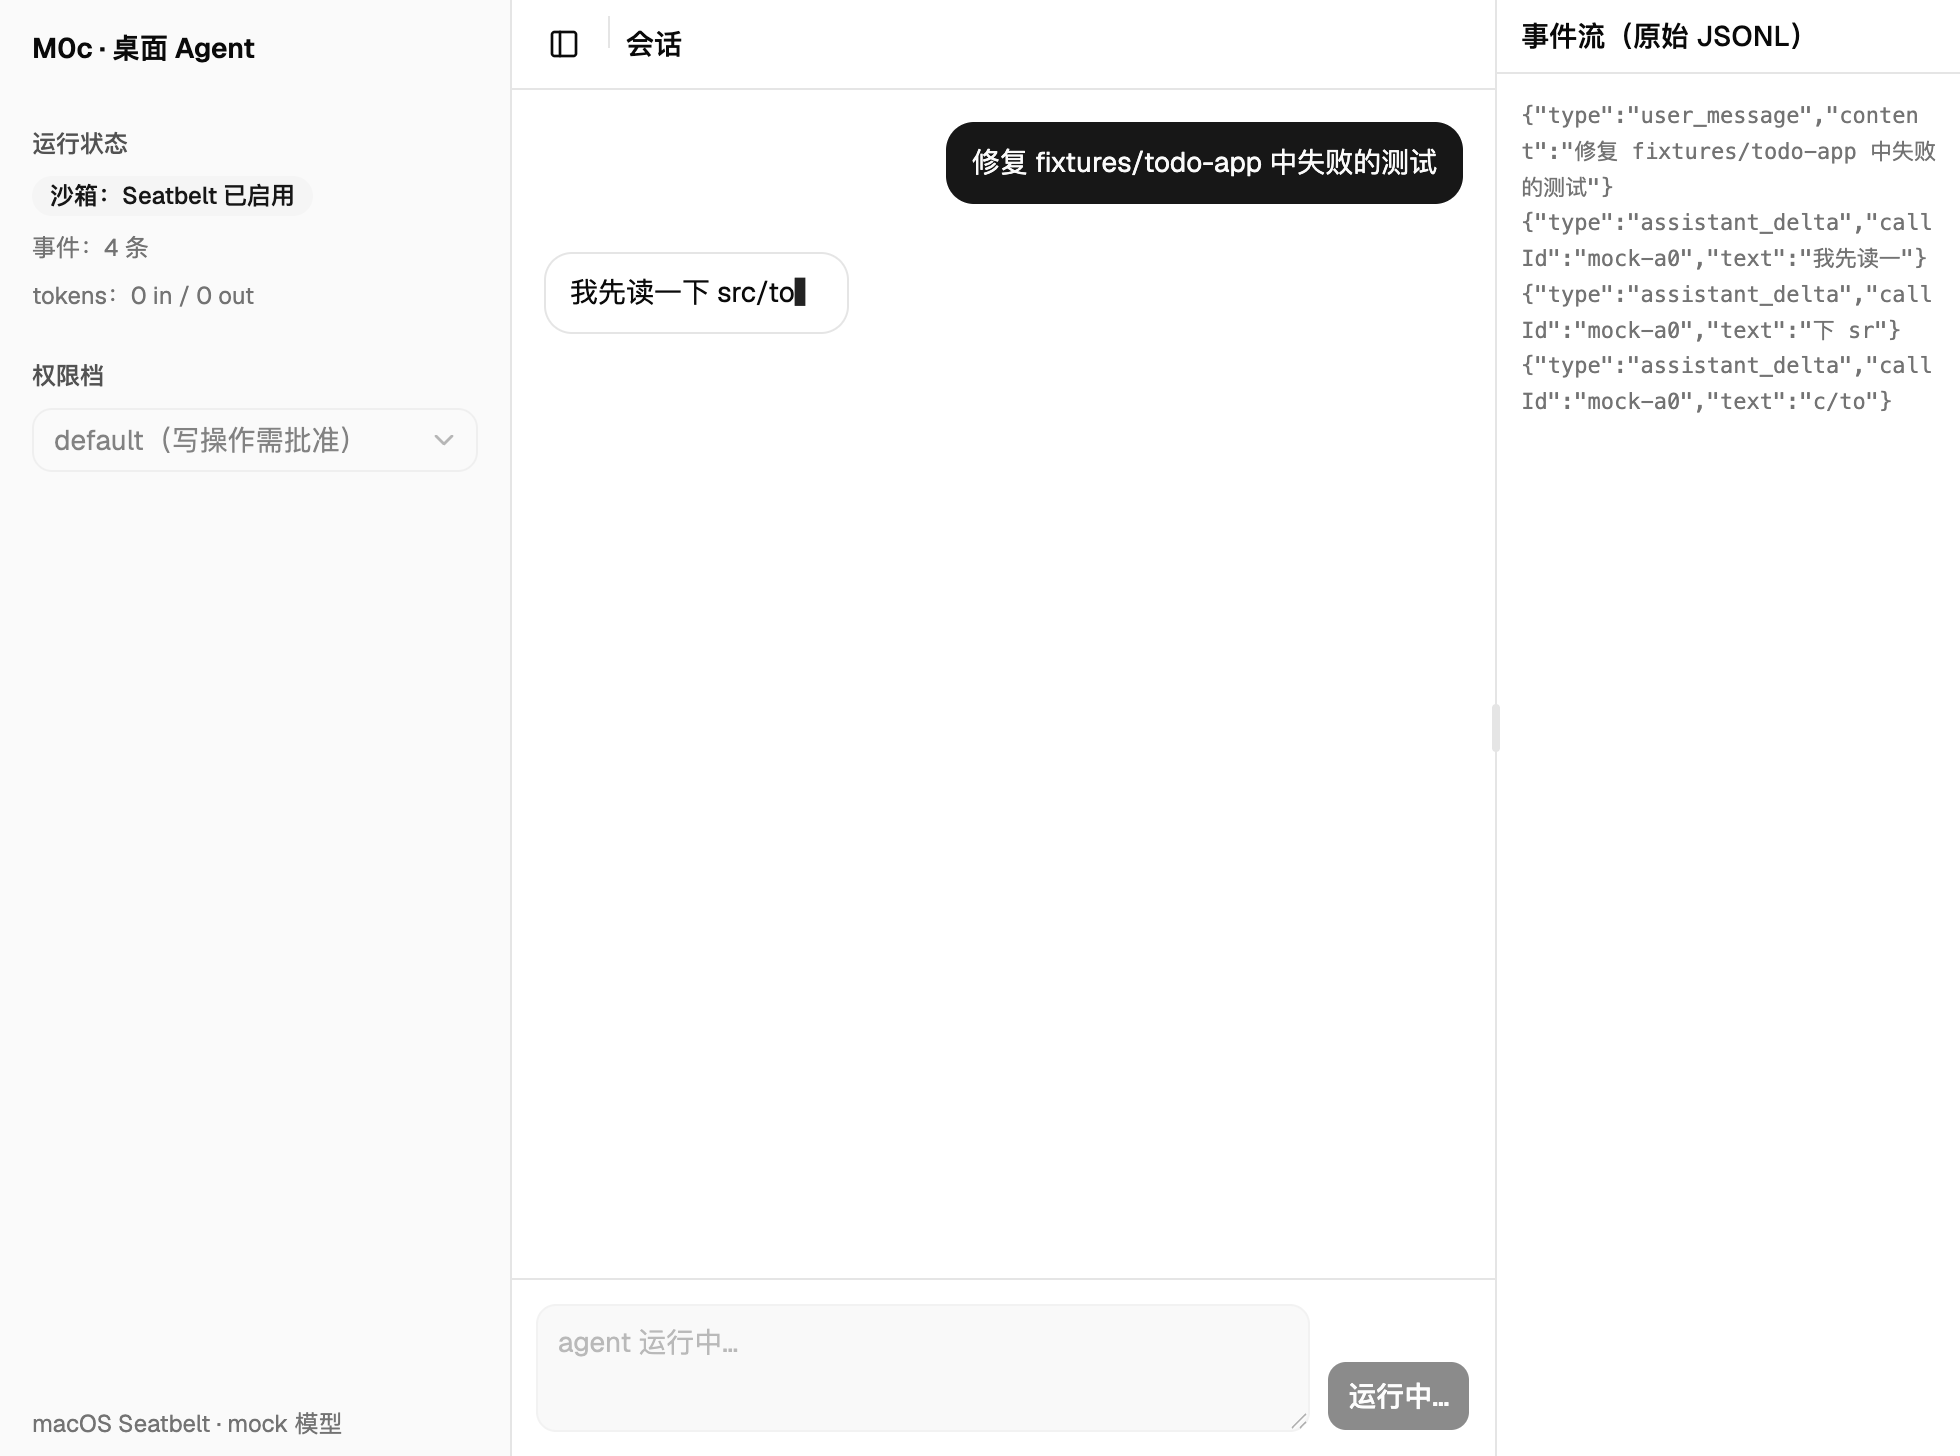
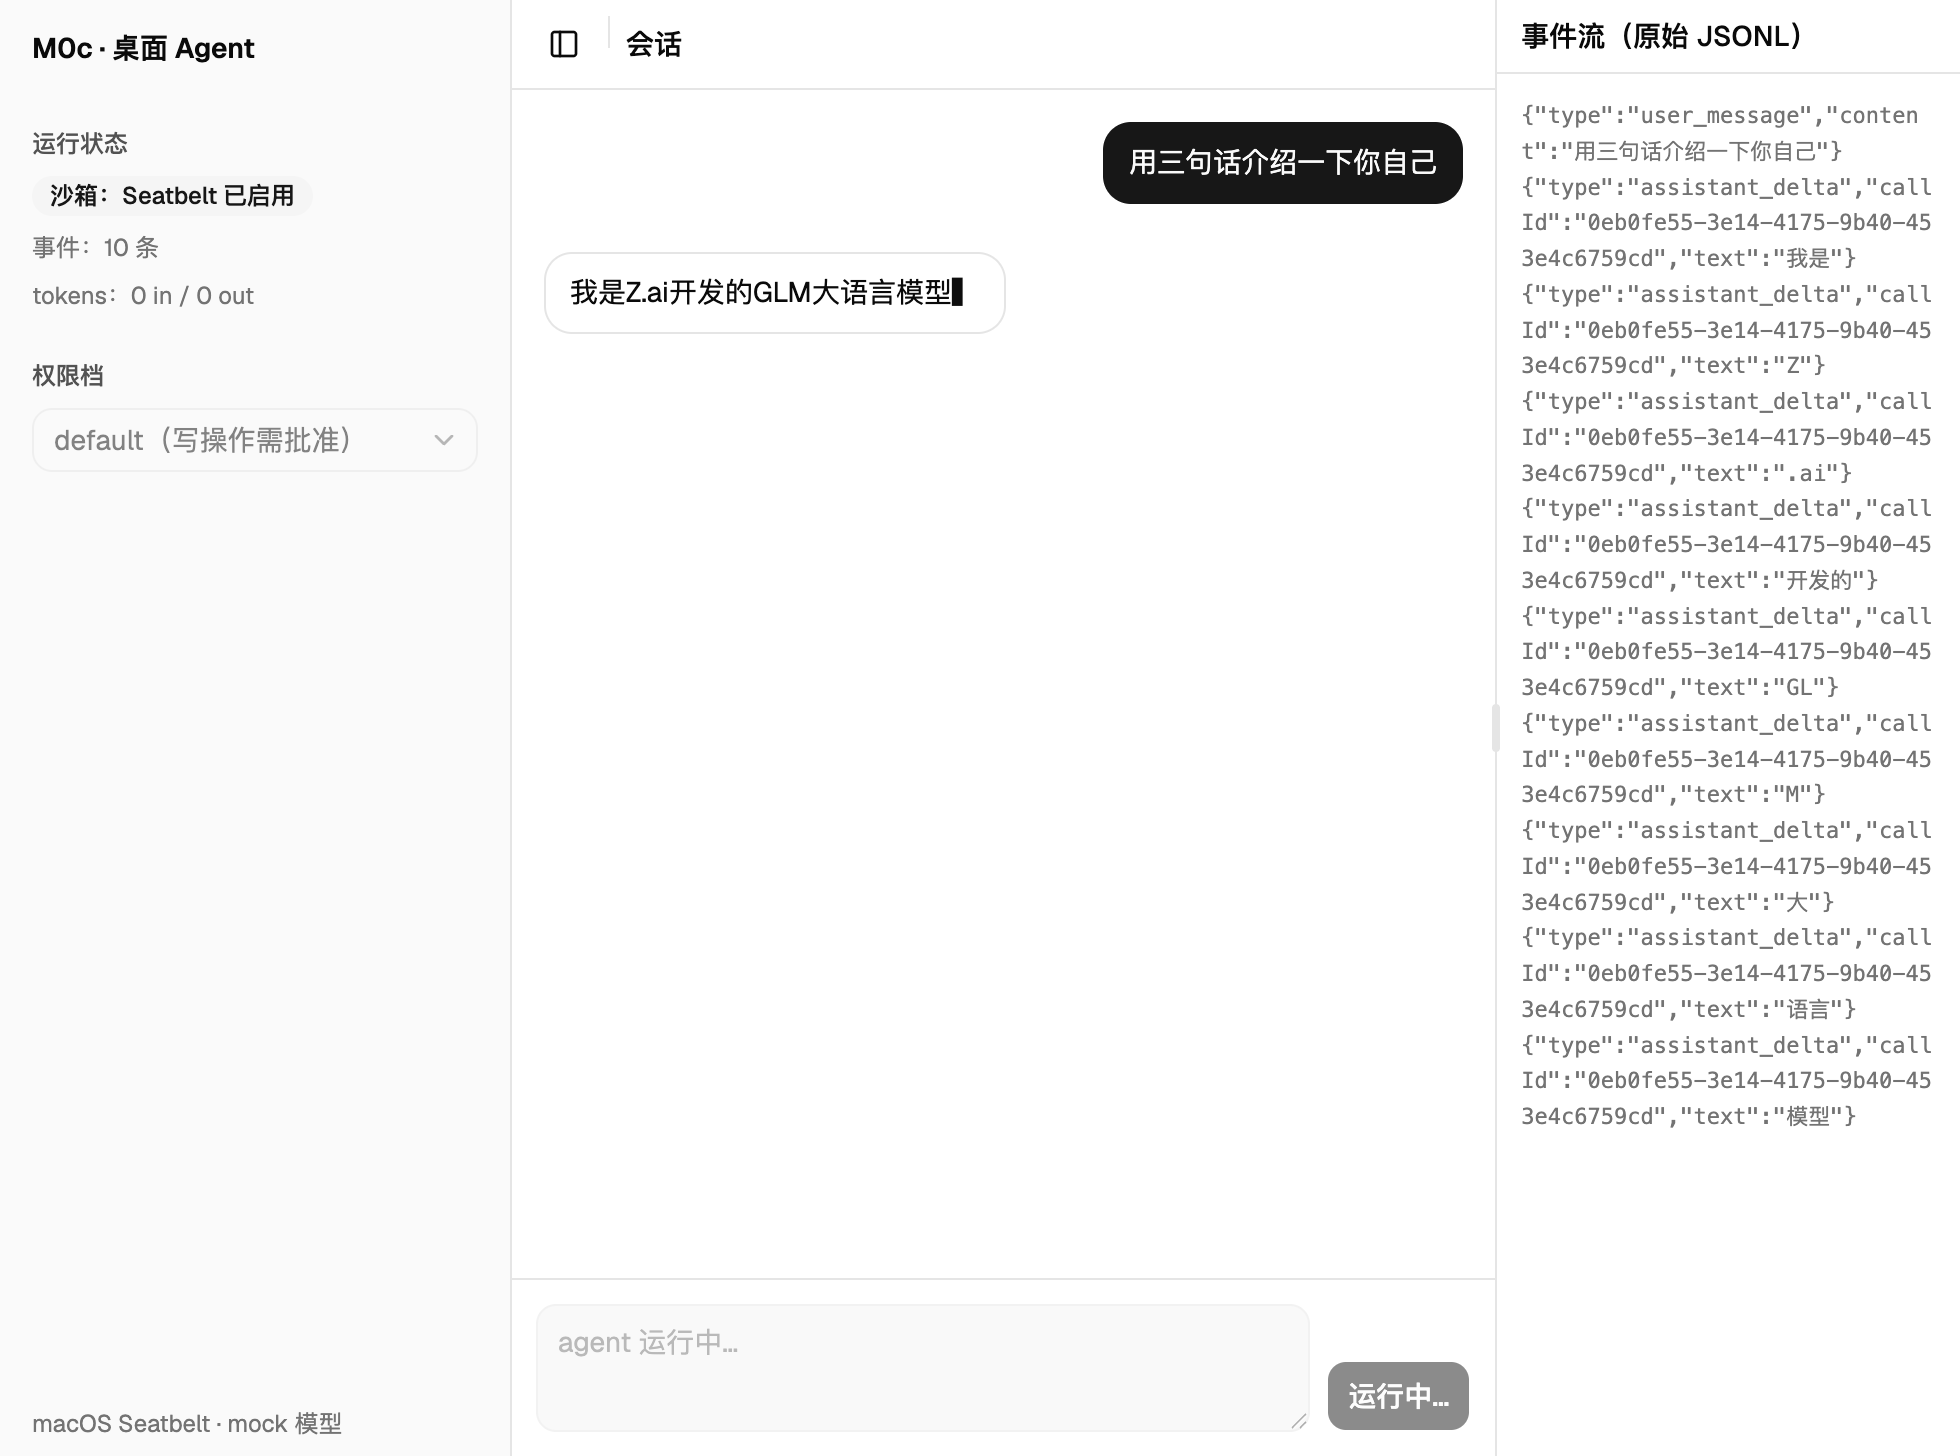
M1a 补验: provider:check 真连绿 / 反向验证红→绿 / 真模型流式截图
glm.ts 端点缺省读 M0_ENDPOINT; agent-runner 增 M0A_PROVIDER=glm env 门控演示通道(缺省 mock 不变); docs/m1a-stream.png 更新为真模型流式中间态; BLOCKED.md ①④已解决

diff --git a/src/main/agent-runner.ts b/src/main/agent-runner.ts
@@ -11,6 +11,8 @@ import type { AgentEvent } from "../events";
 import { createEventLog, replay } from "../events";
 import { checkPermission, type PermissionMode } from "../permissions";
 import { createMockProvider } from "../providers/mock";
+import { streamGlm } from "../providers/glm";
+import type { Provider } from "../providers";
 import { TOOLS, type Tool, type ToolResult } from "../tools";
 import type { ToolName } from "../tools/base";
 import { AskGate, type AskOutcome } from "./ask-gate";
@@ -107,7 +109,22 @@ export interface RunOptions {
   sandbox?: SandboxStatus | null;
 }
 
-/** 核心：mock 驱动跑一轮 loop；每条事件先落 JSONL 再回调。返回完整事件流。 */
+// M1a 真流式演示通道：M0A_PROVIDER=glm 时用真模型单轮流式（无 tools，纯文本；
+// 事件按网络节奏逐条 pull，UI 逐字上屏）。缺省仍为 mock，M0 事件流字节不变。
+// 完整 loop 接线（对话历史反馈 / 多轮工具调用）归 M1b。
+function createProvider(userMessage: string): Provider {
+  if (process.env.M0A_PROVIDER !== "glm") return createMockProvider(MOCK_FIXTURE);
+  let gen: AsyncGenerator<AgentEvent> | null = null;
+  return {
+    async next() {
+      if (!gen) gen = streamGlm([{ role: "user", content: userMessage }]);
+      const { value } = await gen.next();
+      return value ?? null;
+    },
+  };
+}
+
+/** 核心：mock（或演示通道）驱动跑一轮 loop；每条事件先落 JSONL 再回调。返回完整事件流。 */
 export async function runAgent(opts: RunOptions): Promise<AgentEvent[]> {
   installAppTools();
   session = { mode: opts.mode, askGate: opts.askGate ?? null, sandbox: opts.sandbox ?? null };
@@ -115,7 +132,7 @@ export async function runAgent(opts: RunOptions): Promise<AgentEvent[]> {
     await rm(opts.logPath, { force: true });
     const log = createEventLog(opts.logPath);
     await runLoop({
-      provider: createMockProvider(MOCK_FIXTURE),
+      provider: createProvider(opts.message),
       events: {
         append: async (e) => {
           await log.append(e);

diff --git a/src/providers/glm.ts b/src/providers/glm.ts
@@ -21,7 +21,7 @@ export interface GlmOptions {
   apiKey?: string;
   /** 缺省读 process.env.M0_MODEL ?? "glm-5.2"。 */
   model?: string;
-  /** 缺省智谱 OpenAI 兼容端点。 */
+  /** 缺省读 process.env.M0_ENDPOINT ?? 智谱 OpenAI 兼容端点。 */
   endpoint?: string;
   /** 反向验证开关：false = 非流式（整段回复只算 1 个 delta），缺省 true。 */
   stream?: boolean;
@@ -69,7 +69,7 @@ export async function* streamGlm(
   const apiKey = opts.apiKey ?? process.env.M0_API_KEY;
   if (!apiKey) throw new Error("M0_API_KEY 未设置（key 只从环境变量读取，不落文件）");
   const model = opts.model ?? process.env.M0_MODEL ?? "glm-5.2";
-  const endpoint = opts.endpoint ?? GLM_ENDPOINT;
+  const endpoint = opts.endpoint ?? process.env.M0_ENDPOINT ?? GLM_ENDPOINT;
   const stream = opts.stream ?? true;
   const doFetch = opts.fetchImpl ?? fetch;
 

diff --git a/scripts/provider-check.ts b/scripts/provider-check.ts
@@ -33,6 +33,7 @@ if (!process.env.M0_API_KEY) {
   try {
     const logPath = join(dir, "glm-events.jsonl");
     const log = createEventLog(logPath);
+    // 端点/模型/key 均由 glm.ts 从环境变量读取（M0_ENDPOINT / M0_MODEL / M0_API_KEY）
 
     console.log("[provider:check] 调用①：纯文本流式（无 tools，stream=true + 默认模型）");
     const events1: AgentEvent[] = [];
@@ -70,7 +71,7 @@ if (!process.env.M0_API_KEY) {
       },
     ];
     const events2: AgentEvent[] = [];
-    for await (const e of streamGlm([{ role: "user", content: "请调用工具读取 src/todo.ts 的内容。" }], {}, tools)) {
+    for await (const e of streamGlm([{ role: "user", content: "请调用工具读取 src/todo.ts 的内容。" }], undefined, tools)) {
       events2.push(e);
       await log.append(e);
     }

diff --git a/BLOCKED.md b/BLOCKED.md
@@ -23,7 +23,7 @@
 5. **组件源码不跟上游**：本轮未改任何 components/ui 生成文件，故无 @shadcn-modified 标记；后续改动时按拍板加标记。
 
 ## M1a 轮新增待裁决（2026-09-09）
-1. **【真阻塞】M0_API_KEY 缺失 → 联网验收无法执行**：环境变量与 .env.local 均不存在。受影响验收：①`pnpm provider:check` 真连三断言（≥2 delta / usage input>0 且 output>0 / 带 tools 解析出 tool_call）②反向验证 stream:false 红→绿 ③真模型流式截图。GLM provider（src/providers/glm.ts）实现与离线解析单测（stub fetch 3 条）已完成；key 就绪后跑 `pnpm provider:check` 即可补验。key 只进环境变量，不落文件、不入库。
+1. ~~【真阻塞】M0_API_KEY 缺失 → 联网验收无法执行~~ **已解决（2026-09-09 领导提供 key）**：`pnpm provider:check` 真连 exit 0（148 delta / usage 22/754 / tool_call 解析成功 / 151 条事件重放一致）；反向验证 stream:false 红（1 delta，exit 1）→还原→绿（exit 0）完成；docs/m1a-stream.png 已更新为真模型流式版。key 只进当次进程环境变量，全仓 grep 字面量零命中，未落任何文件、未入库。注意：该 key 端点绑定代理（M0_ENDPOINT 必须同传，打默认 bigmodel 端点会 401）。
 2. **scripts/ipc-check.ts 白名单矛盾**：任务 6 明确要求「`pnpm ipc:check` 扩展为重放验收」，但界限清单未列该文件（只列了 provider-check.ts / fork-check.ts 两个新脚本）。按任务执行且改动压到最小（import replay + logPath 提取 + 7 行重放比对断言）。待追认；若判违规可整体 revert 该文件，把比对逻辑迁进 src/main（白名单内）。
 3. **registry 文件后缀偏差**：任务书写 `src/renderer/cards/registry.ts`，卡片组件含 JSX 必须 .tsx（现为 registry.tsx），功能与验收不受影响。
-4. **流式截图的演示通道**：key 缺席时，UI 逐字流式用 mock 演示通道（M0A_MOCK_DELTA=1，env 门控、默认关闭、M0 事件流字节不变）驱动，与 GLM 真流式共用同一条 delta 合成管线（mergeAssistantDeltas + toTimeline）；docs/m1a-stream.png 为该通道中间态（半托项，领导亲验），真模型版截图待 key。
+4. ~~流式截图的演示通道~~ **已解决（2026-09-09 真模型版交付）**：docs/m1a-stream.png 现为真模型（glm-5.3-flash）流式中间态（捕获瞬间气泡 = 「我是Z.ai开发的GLM▍」，模型仍在生成）。mock 演示通道（M0A_MOCK_DELTA=1）保留为无 key 时的演示路径，与真模型共用同一条 delta 合成管线；真模型 UI 通道走 M0A_PROVIDER=glm（env 门控、单轮、无 tools，完整 loop 接线归 M1b）。

diff --git a/PROGRESS.md b/PROGRESS.md
@@ -162,3 +162,12 @@
 - git diff 范围：不含 agent-plan.md；fixtures/e2e-log.jsonl 是 e2e 每轮重写的运行产物（非判卷文件，冻结清单不含它），交付前已还原为提交态。
 - `pnpm provider:check` 退出码 1 = M0_API_KEY 缺失（BLOCKED.md 备案）；反向验证红→绿机制由单测锁定（非流式只产生 1 个 delta）。
 - 半托项：docs/m1a-stream.png（截图瞬间气泡 DOM 文本 = 「我先读一下 src/to▍」，12/25 字流式进行中），领导亲验观感。
+
+### 补验（领导提供 key 后，2026-09-09）
+- 接入三要素：端点 https://api.b.ai/v1（OpenAI 兼容代理 → 完整 URL /v1/chat/completions）、模型 glm-5.3-flash、key 经环境变量 M0_API_KEY 注入（当次进程 env，不落文件不入库不复述）。
+- glm.ts 端点缺省改为 `process.env.M0_ENDPOINT ?? GLM_ENDPOINT`（key/模型/端点三环境变量单一来源）；provider-check 直呼不再自行拼 opts。
+- `pnpm provider:check` 真连 **exit 0**：①148 个 delta ②usage 22/754 ③tool_call(read_file,{path:"src/todo.ts"})；151 条事件 JSONL 重放逐字一致。（首次收口跑 PROVIDER_EXIT=1 系漏传 M0_ENDPOINT——代理 key 打默认 bigmodel 端点 401；三要素必须同传，带端点重跑即绿。）
+- 反向验证红→绿（任务书要求）：glm.ts 默认 stream 暂改 false → `❌ ①收到 ≥2 个 delta（实际 1）` exit 1；还原 true → 全绿 exit 0（125 delta）。
+- 真模型流式截图：agent-runner 增 env 门控演示通道（M0A_PROVIDER=glm，缺省 mock 字节不变；单轮流式无 tools、pull-based 逐事件吐出，完整 loop 接线归 M1b），CDP 驱动真实发送，捕获瞬间气泡 DOM 文本 = 「我是Z.ai开发的GLM▍」（模型仍在生成）；docs/m1a-stream.png 已更新为真模型版。
+- key 安全复查：全仓 grep key 字面量零命中（排除 node_modules/.git/out/.tmp）。
+- 最终：六道门 + fork-check CHAIN_EXIT=0（test 43/skipped 0）+ provider:check exit 0——硬指标一补验后完整达成。
